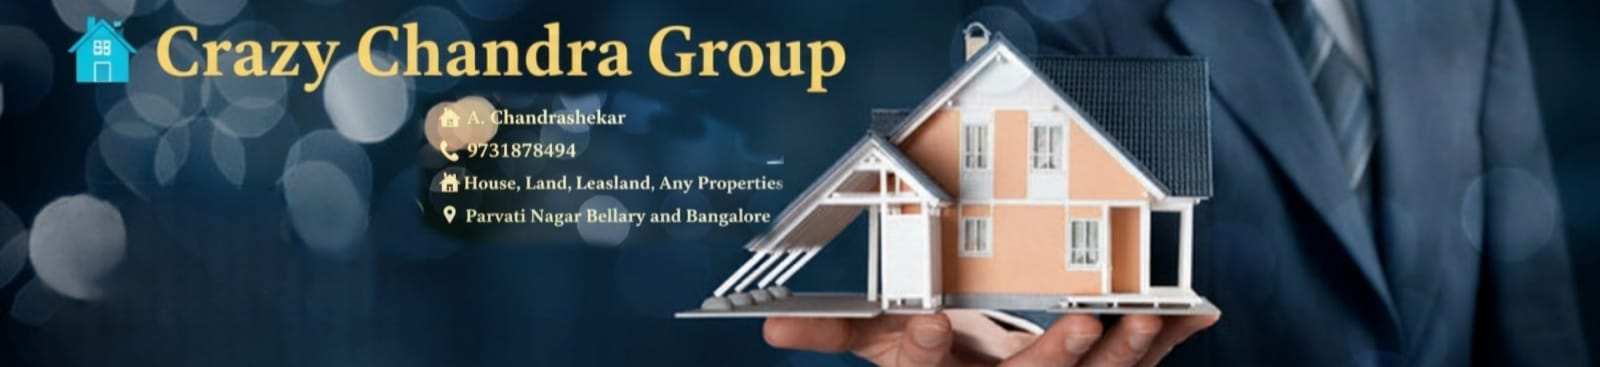
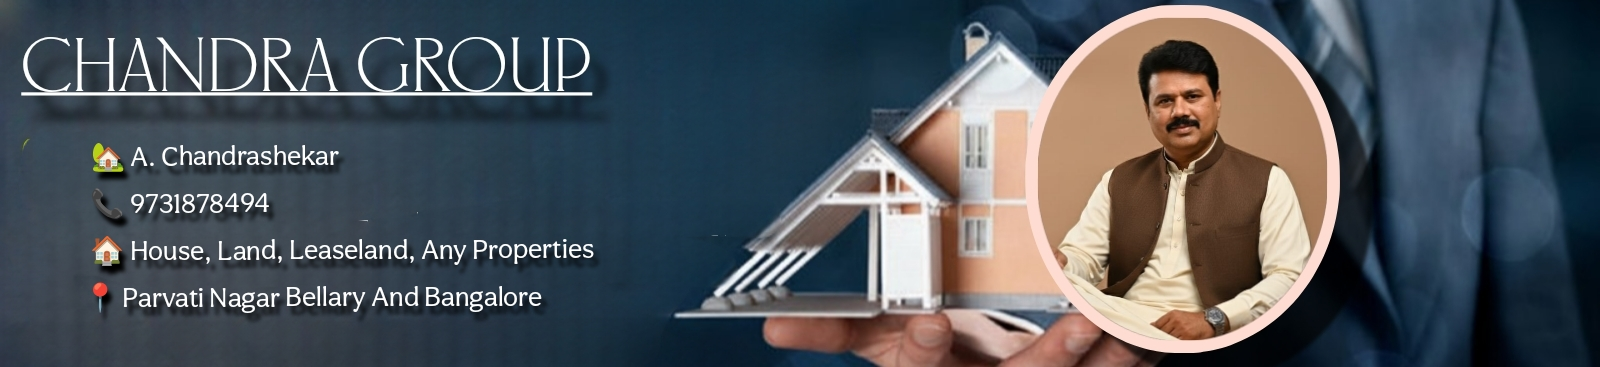
adding professionality

diff --git a/styles.css b/styles.css
@@ -1,19 +1,21 @@
-body { font-family: Arial, sans-serif; margin: 0; padding: 0; }
-header, footer { background: #333; color: #fff; text-align: center; padding: 1em 0;}
-nav a { color: #fff; margin: 0 1em; text-decoration: none; }
-section { padding: 2em; }
-.property-list { display: flex; gap: 2em; flex-wrap: wrap; }
-.property-list .property-card { border: 1px solid #ddd; padding: 1em; width: 300px; background: #f9f9f9; }
-form input, form textarea { width: 100%; margin-bottom: 1em; padding: 1em; }
-form button { padding: 1em 2em; background: #333; color: #fff; border: none; }
-#banner-top {
-  position: relative;
-  width: 100%;
-  height: 100px; /* Adjust to your banner's image height */
-  background: linear-gradient(360deg, #23395d 0%, #1a75cf 100%);
-  overflow: hidden;
+/* Import Google Fonts */
+@import url('https://fonts.googleapis.com/css2?family=Poppins:wght@600&family=Open+Sans&display=swap');
+
+/* General Styles */
+* {
+  margin: 0;
+  padding: 0;
+  box-sizing: border-box;
 }
 
+body {
+  font-family: 'Open Sans', sans-serif;
+  color: #444;
+  line-height: 1.6;
+  background-color: #f8f9fa;
+}
+
+/* Banner Section */
 #banner-image {
   width: 100%;
   height: 100%;
@@ -21,35 +23,207 @@ form button { padding: 1em 2em; background: #333; color: #fff; border: none; }
   display: block;
 }
 
-#banner-title {
-  position: absolute;
-  top: 0;
-  left: 0;
-  width: 100%;
-  height: 100%;
+/* Navigation Bar */
+.navbar {
   display: flex;
-  align-items: center;
   justify-content: center;
-  color: #fff;
-  font-size: 2em;
-  font-weight: bold;
-  background: rgba(35, 57, 93, 0.4); /* transparent overlay for visibility */
-  pointer-events: none;
+  background: #fff;
+  padding: 15px 0;
+  box-shadow: 0 2px 10px rgba(0, 0, 0, 0.05);
+  position: sticky;
+  top: 0;
+  z-index: 10;
 }
-.gradient-widget {
-  background: linear-gradient(135deg, #667eea 0%, #764ba2 100%);
+
+.navbar a {
+  text-decoration: none;
+  color: #222;
+  font-family: 'Poppins', sans-serif;
+  font-weight: 600;
+  margin: 0 20px;
+  transition: color 0.3s ease;
+}
+
+.navbar a:hover {
+  color: #e63946; /* accent red */
+}
+
+/* Hero Section */
+#hero {
+  text-align: center;
+  padding: 80px 20px;
+  background: linear-gradient(to bottom, rgba(255,255,255,0.8), #f8f9fa);
+}
+
+#hero h1 {
+  font-family: 'Poppins', sans-serif;
+  font-size: 48px;
+  color: #222;
+  margin-bottom: 10px;
+}
+
+#hero p {
+  font-size: 20px;
+  color: #555;
+}
+
+/* Properties Section */
+#properties {
+  padding: 60px 20px;
+  text-align: center;
+}
+
+#properties h2 {
+  font-family: 'Poppins', sans-serif;
+  font-size: 36px;
+  margin-bottom: 40px;
+}
+
+.property-list {
+  display: flex;
+  flex-wrap: wrap;
+  justify-content: center;
+  gap: 30px;
+}
+
+.property {
+  width: 300px;
+  background: #fff;
   border-radius: 12px;
-  box-shadow: 0 4px 15px rgba(118, 75, 162, 0.6);
+  box-shadow: 0 4px 15px rgba(0,0,0,0.1);
+  overflow: hidden;
+  transition: transform 0.3s ease;
+}
+
+.property:hover {
+  transform: scale(1.03);
+}
+
+.property img {
+  width: 100%;
+  height: 200px;
+  object-fit: cover;
+}
+
+.property h3 {
+  font-family: 'Poppins', sans-serif;
+  font-size: 20px;
+  margin: 15px 10px 5px;
+}
+
+.property p {
+  margin: 0 10px 15px;
+  color: #666;
+}
+
+/* About Section */
+#about {
+  background-color: #fff;
+  padding: 60px 20px;
+  text-align: center;
+}
+
+#about h2 {
+  font-size: 36px;
+  font-family: 'Poppins', sans-serif;
+  margin-bottom: 20px;
+}
+
+#about p {
+  font-size: 18px;
+  max-width: 700px;
+  margin: 0 auto;
+  color: #555;
+}
+
+/* Contact Section */
+#contact {
+  padding: 60px 20px;
+  background-color: #f8f9fa;
+  text-align: center;
+}
+
+/* Contact Section */
+#contact {
+  padding: 60px 20px;
+  background-color: #f8f9fa;
+  text-align: center;
+}
+
+#contact h2 {
+  font-size: 36px;
+  font-family: 'Poppins', sans-serif;
+  margin-bottom: 20px;
+}
+
+/* Align and style form */
+form {
+  max-width: 500px;
+  margin: 0 auto;
+  display: flex;
+  flex-direction: column;
+  gap: 15px;
+  align-items: stretch; /* ensures all inputs are same width */
+}
+
+form input,
+form textarea {
+  width: 100%;
+  padding: 14px 16px;
+  border: 1px solid #ccc;
+  border-radius: 8px;
+  font-size: 16px;
+  resize: none;
+  font-family: 'Open Sans', sans-serif;
+  box-sizing: border-box;
+  transition: border-color 0.3s ease, box-shadow 0.3s ease;
+}
+
+form input:focus,
+form textarea:focus {
+  border-color: #e63946;
+  box-shadow: 0 0 6px rgba(230, 57, 70, 0.4);
+  outline: none;
+}
+
+form button {
+  background-color: #e63946;
   color: white;
-  padding: 20px;
-  margin: 15px 0;
-  font-weight: bold;
-  transition: background 0.3s ease;
-}
-
-.gradient-widget:hover {
-  background: linear-gradient(135deg, #6e66f7eb 0%, #3b5fff 100%);
+  border: none;
+  padding: 14px;
+  border-radius: 8px;
+  font-size: 16px;
   cursor: pointer;
+  font-weight: 600;
+  transition: background 0.3s ease, transform 0.2s ease;
 }
 
+form button:hover {
+  background-color: #c72e3a;
+  transform: scale(1.02);
+}
+#contact form {
+  background: #fff;
+  padding: 30px;
+  border-radius: 12px;
+  box-shadow: 0 4px 15px rgba(0,0,0,0.08);
+}
+/* Fade-in Scroll Animation */
+section {
+  opacity: 0;
+  transform: translateY(50px);
+  transition: all 0.8s ease-out;
+}
 
+section.visible {
+  opacity: 1;
+  transform: translateY(0);
+}
+@media (max-width: 480px) {
+  #hero h1 {
+    font-size: 28px;
+  }
+  .navbar a {
+    margin: 0 10px;
+  }
+}

diff --git a/script.js b/script.js
@@ -1,4 +1,45 @@
-document.querySelector('form').addEventListener('submit', function(e){
-  e.preventDefault();
-  alert('Thanks for reaching out!');
+// Simple scroll animation
+document.addEventListener("scroll", () => {
+  const sections = document.querySelectorAll("section");
+  const triggerPoint = window.innerHeight * 0.85;
+
+  sections.forEach((sec) => {
+    const top = sec.getBoundingClientRect().top;
+    if (top < triggerPoint) {
+      sec.style.opacity = 1;
+      sec.style.transform = "translateY(0)";
+    }
+  });
+});
+
+// Initial setup
+document.querySelectorAll("section").forEach((sec) => {
+  sec.style.opacity = 0;
+  sec.style.transform = "translateY(50px)";
+  sec.style.transition = "all 0.6s ease-out";
+});
+// Fade-in effect on scroll
+document.addEventListener("scroll", () => {
+  const sections = document.querySelectorAll("section");
+  const triggerPoint = window.innerHeight * 0.85; // when to trigger
+
+  sections.forEach(section => {
+    const sectionTop = section.getBoundingClientRect().top;
+    if (sectionTop < triggerPoint) {
+      section.classList.add("visible");
+    }
+  });
+});
+
+// Run once on load (for top of page)
+window.addEventListener("load", () => {
+  const sections = document.querySelectorAll("section");
+  const triggerPoint = window.innerHeight * 0.85;
+
+  sections.forEach(section => {
+    const sectionTop = section.getBoundingClientRect().top;
+    if (sectionTop < triggerPoint) {
+      section.classList.add("visible");
+    }
+  });
 });

diff --git a/index.html b/index.html
@@ -4,29 +4,29 @@
   <meta charset="UTF-8">
   <meta name="viewport" content="width=device-width, initial-scale=1.0">
   <title>Crazy Chandra Groups</title>
+
+  <!-- Google Fonts -->
+  <link href="https://fonts.googleapis.com/css2?family=Poppins:wght@600&family=Open+Sans&display=swap" rel="stylesheet">
+
+  <!-- External Stylesheet -->
   <link rel="stylesheet" href="styles.css">
 </head>
+
 <body>
-
-
-
-<div class="banner">
-  <img src="images/banner_2.jpg" alt="Crazy Chandra Group Banner">
-</div>
-
-
   <header>
-    <nav>
-      <div class="gradient-widget">
+    <div class="banner">
+      <img src="images/banner_2.jpg" alt="Crazy Chandra Group Banner">
+    </div>
+
+    <nav class="navbar">
       <a href="#properties">Properties</a>
       <a href="#about">About Us</a>
       <a href="#contact">Contact</a>
-      </div>
     </nav>
   </header>
 
   <section id="hero">
-    <h2>Your Dream Home Awaits</h2>
+    <h1>Your Dream Home Awaits</h1>
     <p>Find the best properties for sale and rent.</p>
   </section>
 
@@ -51,8 +51,9 @@
       <button type="submit">Send</button>
     </form>
   </section>
+
   <footer>
-    <p>&copy; 2025 Startup Real Estate. All rights reserved.</p>
+    <p>&copy; 2025 Crazy Chandra Groups. All rights reserved.</p>
   </footer>
 
   <script src="script.js"></script>
